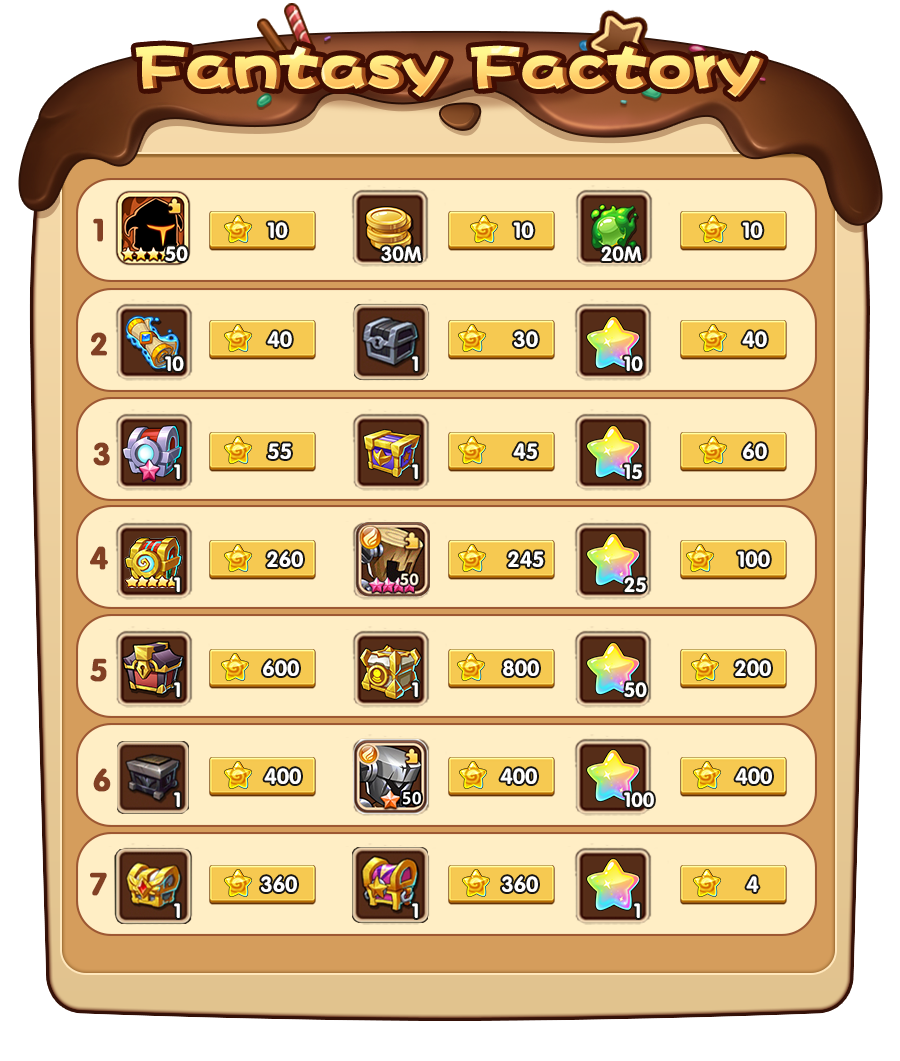
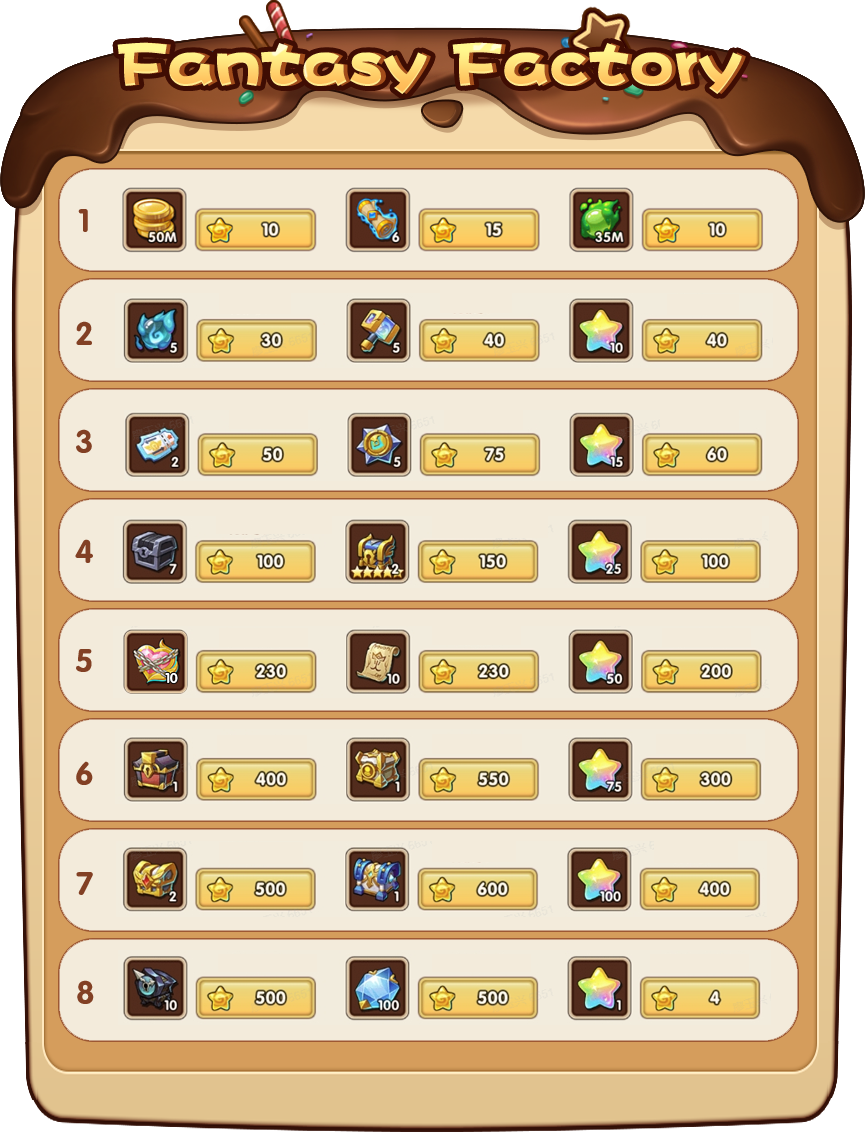
ff new

diff --git a/src/features/events/ff/page.tsx b/src/features/events/ff/page.tsx
@@ -24,10 +24,10 @@ export function EventsFF() {
 
     const imgW = 600;
     const imgH = 708;
-    const tableMarginL = imgW*0.105;
-    const tableMarginR = imgW*0.1;
-    const tableMarginT = imgH*0.16;
-    const tableMarginB = imgH*0.11;
+    const tableMarginL = imgW*0.12;
+    const tableMarginR = imgW*0.095;
+    const tableMarginT = imgH*0.142;
+    const tableMarginB = imgH*0.073;
 
     const containerSize = {
         height: `${imgH}px`,
@@ -66,22 +66,23 @@ export function EventsFF() {
     const infoStyle = {
         border: '2px solid gray',
         width: `${imgW*0.6}px`,
-        height: `1.1em`,
+        height: `1em`,
         left: `${imgW*0.18}px`,
-        top: `${imgH*0.085}px`,
+        top: `${imgH*0.08}px`,
     };
 
-    const itemsX = Array(7).fill(0);
+    const itemsX = Array(8).fill(0);
     const itemsY = Array(3).fill(0);
 
     const costs = {
-        '0-0': 10, '0-1': 10, '0-2': 10,
-        '1-0': 40, '1-1': 30, '1-2': 40,
-        '2-0': 55, '2-1': 45, '2-2': 60,
-        '3-0': 260, '3-1': 245, '3-2': 100,
-        '4-0': 600, '4-1': 800, '4-2': 200,
-        '5-0': 400, '5-1': 400, '5-2': 400,
-        '6-0': 360, '6-1': 360, '6-2': 4,
+        '0-0': 10, '0-1': 15, '0-2': 10,
+        '1-0': 30, '1-1': 40, '1-2': 40,
+        '2-0': 50, '2-1': 75, '2-2': 60,
+        '3-0': 100, '3-1': 150, '3-2': 100,
+        '4-0': 230, '4-1': 230, '4-2': 200,
+        '5-0': 400, '5-1': 550, '5-2': 300,
+        '6-0': 500, '6-1': 600, '6-2': 400,
+        '7-0': 500, '7-1': 500, '7-2': 4,
     }
 
     var stars = 0;
